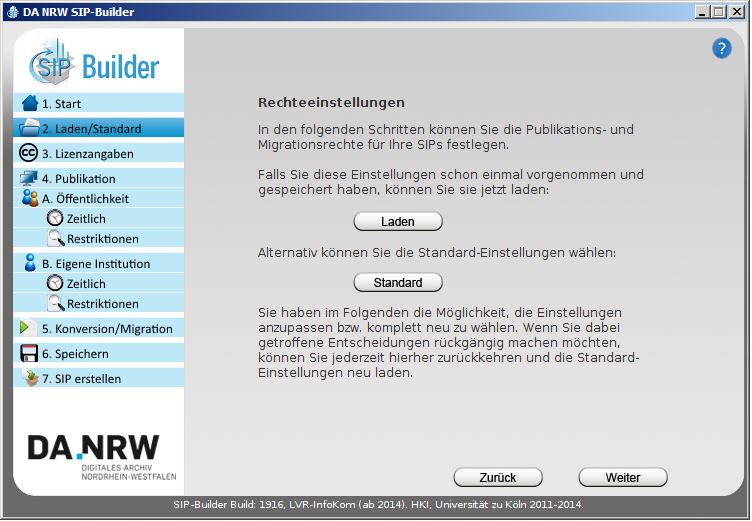
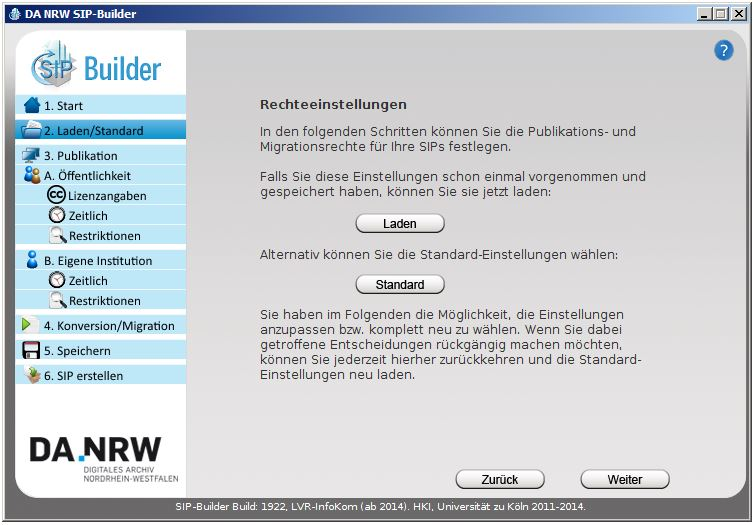
update sip-builder manual

diff --git a/SIP-Builder/src/main/java/de/uzk/hki/da/gui/Gui.java b/SIP-Builder/src/main/java/de/uzk/hki/da/gui/Gui.java
@@ -1498,28 +1498,28 @@ public class Gui extends JFrame{
 		
 		publicationActivatedIconButton.setBounds(10, 120, 171, 20);
 		publicationIconButton.setBounds(10, 120, 171, 20);
-		publicActivatedIconButton.setBounds(10, 145, 171, 20);
-		publicIconButton.setBounds(10, 145, 171, 20);
+		publicActivatedIconButton.setBounds(10, 140, 171, 20);
+		publicIconButton.setBounds(10, 140, 171, 20);
 		
-		licenseActivatedIconButton.setBounds(10, 165, 171, 20);
-		licenseIconButton.setBounds(10, 165, 171, 20);
+		licenseActivatedIconButton.setBounds(10, 160, 171, 20);
+		licenseIconButton.setBounds(10, 160, 171, 20);
 		
-		publicTempActivatedIconButton.setBounds(10, 185, 171, 20);
-		publicTempIconButton.setBounds(10, 185, 171, 20);
-		publicRestrictionActivatedIconButton.setBounds(10, 205, 171, 20);
-		publicRestrictionIconButton.setBounds(10, 205, 171, 20);
-		institutionActivatedIconButton.setBounds(10, 230, 171, 20);
-		institutionIconButton.setBounds(10, 230, 171, 20);
-		institutionTempActivatedIconButton.setBounds(10, 250, 171, 20);
-		institutionTempIconButton.setBounds(10, 250, 171, 20);
-		institutionRestrictionActivatedIconButton.setBounds(10, 270, 171, 20);
-		institutionRestrictionIconButton.setBounds(10, 270, 171, 20);
-		migrationActivatedIconButton.setBounds(10, 295, 171, 20);
-		migrationIconButton.setBounds(10, 295, 171, 20);
-		saveActivatedIconButton.setBounds(10, 320, 171, 20);
-		saveIconButton.setBounds(10, 320, 171, 20);
-		createActivatedIconButton.setBounds(10, 345, 171, 20);
-		createIconButton.setBounds(10, 345, 171, 20);
+		publicTempActivatedIconButton.setBounds(10, 180, 171, 20);
+		publicTempIconButton.setBounds(10, 180, 171, 20);
+		publicRestrictionActivatedIconButton.setBounds(10, 200, 171, 20);
+		publicRestrictionIconButton.setBounds(10, 200, 171, 20);
+		institutionActivatedIconButton.setBounds(10, 225, 171, 20);
+		institutionIconButton.setBounds(10, 225, 171, 20);
+		institutionTempActivatedIconButton.setBounds(10, 245, 171, 20);
+		institutionTempIconButton.setBounds(10, 245, 171, 20);
+		institutionRestrictionActivatedIconButton.setBounds(10, 265, 171, 20);
+		institutionRestrictionIconButton.setBounds(10, 265, 171, 20);
+		migrationActivatedIconButton.setBounds(10, 290, 171, 20);
+		migrationIconButton.setBounds(10, 290, 171, 20);
+		saveActivatedIconButton.setBounds(10, 315, 171, 20);
+		saveIconButton.setBounds(10, 315, 171, 20);
+		createActivatedIconButton.setBounds(10, 340, 171, 20);
+		createIconButton.setBounds(10, 340, 171, 20);
 		helpIconButton.setBounds(709, 15, 20, 22);
 
 		// startPanel

diff --git a/SIP-Builder/src/manual/manual_SIPBuilder.md b/SIP-Builder/src/manual/manual_SIPBuilder.md
@@ -62,17 +62,6 @@ Wählen Sie diese Option, um die Standard-Rechteeinstellungen zu wählen:
 
 Bei Betätigung des Buttons __Standard__ werden die zuvor gewählten Einstellungen verworfen und durch die Standardwerte ersetzt.
 
-### Lizenzangaben  
-
-![Bild](https://raw.githubusercontent.com/da-nrw/DNSCore/master/SIP-Builder/src/manual/Lizenz.jpg)
-
-Für eine Publikation ist eine Lizenzangabe erforderlich. Die Lizenznangabe darf entweder in den Metadaten stehen oder im SIP-Builder angegeben werden, aber nicht an beiden Stellen gleichzeitig.
-
-__Aus Metadaten__  
-Die Lizenzangaben können aus den Metadaten (z.B. Mets) übernommen werden.
-
-__Im Sip-Builder festlegen__  
-Zur Auswahl stehen unterschiedliche CC-Lizensen und PDM-Lizenz. Diese Lizenzangabe wird in der Premis-Datei vermerkt und bis zum Portal weitergereicht, somit bleiben die angegebenen Quellordner-Daten unverändert. 
 
 ### Publikation
 
@@ -90,6 +79,19 @@ Erstellung von Publikationsderivaten, die nur der eigenen Institution über die 
 
 Sie können  wählen, ob die Erstellung der Publikationsdaten grundsätzlich stattfinden soll und ob in diesem Fall zusätzliche Restriktionen in Kraft treten sollen. Diese Restriktionen können für die Öffentlichkeit und die eigene Institution jeweils separat festgelegt werden.  
 Daten, die für die Anzeige in öffentlichen Portalen erstellt wurden, werden automatisch auch der Deutschen Digitalen Bibliothek zur Verfügung gestellt. Möchten Sie diesen Vorgang vermeiden, können Sie die Checkbox __DDB-Harvesting erlauben__ deaktivieren. In diesem Fall werden der Deutschen Digitalen Bibliothek keine Daten zugänglich gemacht.
+
+
+#### Lizenzangaben  
+
+![Bild](https://raw.githubusercontent.com/da-nrw/DNSCore/master/SIP-Builder/src/manual/Lizenz.jpg)
+
+Für eine Publikation ist eine Lizenzangabe erforderlich. Die Lizenznangabe darf entweder in den Metadaten stehen oder im SIP-Builder angegeben werden, aber nicht an beiden Stellen gleichzeitig.
+
+__Aus Metadaten__  
+Die Lizenzangaben können aus den Metadaten (z.B. Mets) übernommen werden.
+
+__Im Sip-Builder festlegen__  
+Zur Auswahl stehen unterschiedliche Lizenzen (Creative Commons, Datenlizenz Deutschland und Public Domain Mark). Diese Lizenzangabe wird in der Premis-Datei vermerkt und bis zum Portal weitergereicht, somit bleiben die angegebenen Quellordner-Daten unverändert. 
 
 #### Startzeitpunkt der Publikation
 
